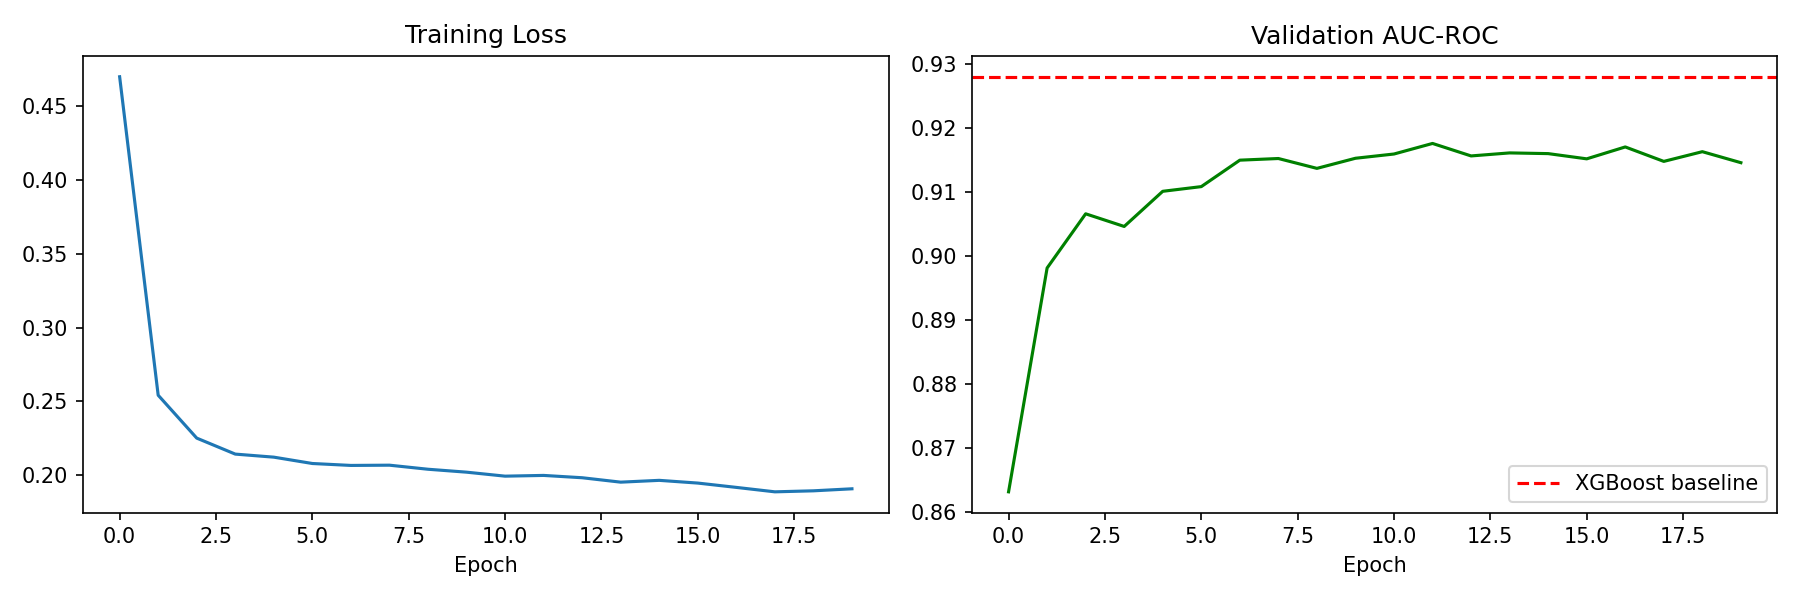
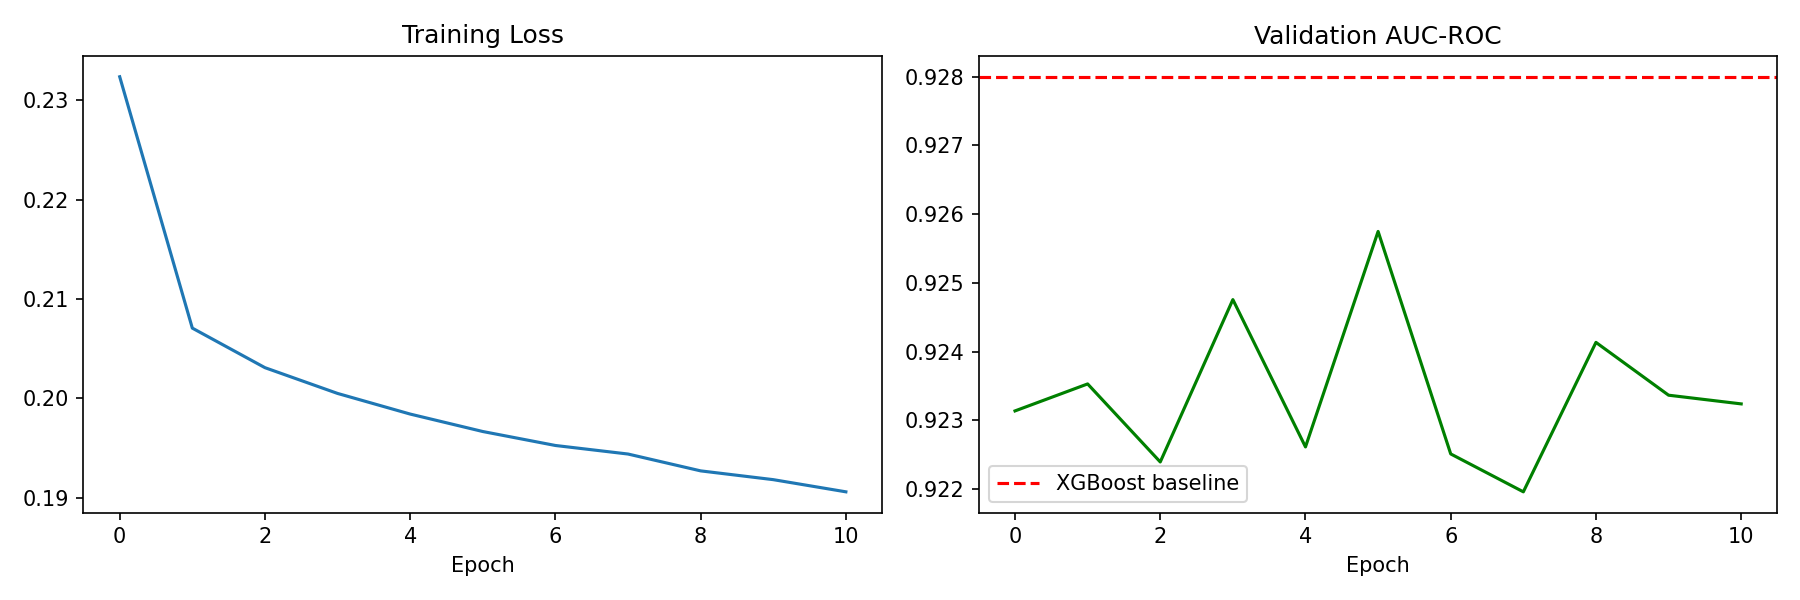
LSTM with early stopping: best AUC 0.9257, competitive with XGBoost

diff --git a/src/models/lstm_model.py b/src/models/lstm_model.py
@@ -14,7 +14,7 @@ meta = pd.read_csv("data/sequence_meta.csv")
 meta['date'] = pd.to_datetime(meta['date'])
 
 # Subsample for local testing - comment out for full run on Colab
-SUBSET = True
+SUBSET = False
 if SUBSET:
     idx = np.random.choice(len(X), size=50000, replace=False)
     X = X[idx]
@@ -54,7 +54,7 @@ val_loader = DataLoader(HABDataset(X_val, y_val), batch_size=512, shuffle=False)
 
 # LSTM Model
 class HABPredictor(nn.Module):
-    def __init__(self, input_size, hidden_size=64, num_layers=2, dropout=0.3):
+    def __init__(self, input_size, hidden_size=64, num_layers=2, dropout=0.5): #0.3 -> 0.5
         super().__init__()
         self.lstm = nn.LSTM(
             input_size=input_size,
@@ -83,11 +83,16 @@ device = torch.device('cuda' if torch.cuda.is_available() else 'cpu')
 print(f"Using device: {device}")
 
 model = HABPredictor(input_size=15).to(device)
-optimizer = torch.optim.Adam(model.parameters(), lr=1e-3)
+# Add weight decay
+optimizer = torch.optim.Adam(model.parameters(), lr=1e-3, weight_decay=1e-4)
 criterion = nn.BCELoss()
 
 # Training loop
-EPOCHS = 20
+EPOCHS = 50
+best_auc = 0
+patience = 5
+patience_counter = 0
+best_model_state = None
 train_losses, val_aucs = [], []
 
 for epoch in range(EPOCHS):
@@ -115,7 +120,22 @@ for epoch in range(EPOCHS):
     train_losses.append(avg_loss)
     val_aucs.append(val_auc)
     
-    print(f"Epoch {epoch+1}/{EPOCHS} | Loss: {avg_loss:.4f} | Val AUC: {val_auc:.4f}")
+    if val_auc > best_auc:
+        best_auc = val_auc
+        best_model_state = {k: v.clone() for k, v in model.state_dict().items()}
+        patience_counter = 0
+    else:
+        patience_counter += 1
+    
+    print(f"Epoch {epoch+1}/{EPOCHS} | Loss: {avg_loss:.4f} | Val AUC: {val_auc:.4f} | Best: {best_auc:.4f}")
+    
+    if patience_counter >= patience:
+        print(f"Early stopping at epoch {epoch+1}")
+        break
+
+# Restore best model
+model.load_state_dict(best_model_state)
+print(f"\nBest Val AUC: {best_auc:.4f}")    
 
 # Final evaluation
 print("\nFinal evaluation on validation set:")